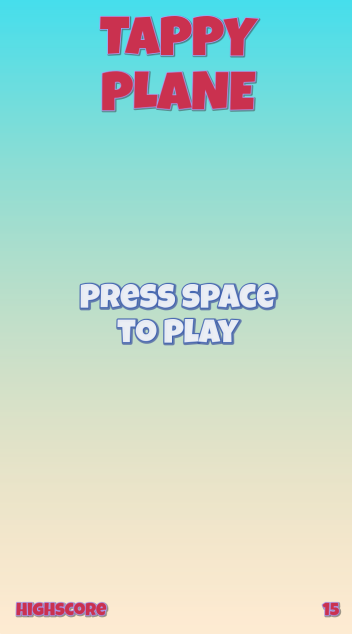
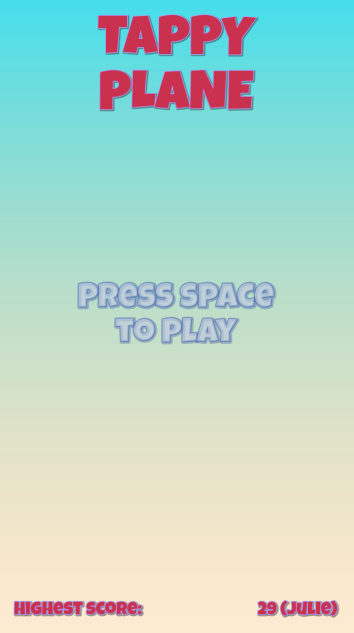
updated readme

diff --git a/README.md b/README.md
@@ -20,6 +20,10 @@ Navigation back to main menu
 
 ![Back to main menu](/readme_imgs/press_space.png)
 
+Leaderboard
+
+![Leaderboard](/readme_imgs/leaderboard.png)
+
 ## Features
 
 - Flappy bird remake
@@ -27,6 +31,7 @@ Navigation back to main menu
 - Persistance of high score
 - Parallax background
 - Animations, music and sound effects
+- Leaderboard
 
 ## What is Godot
 
